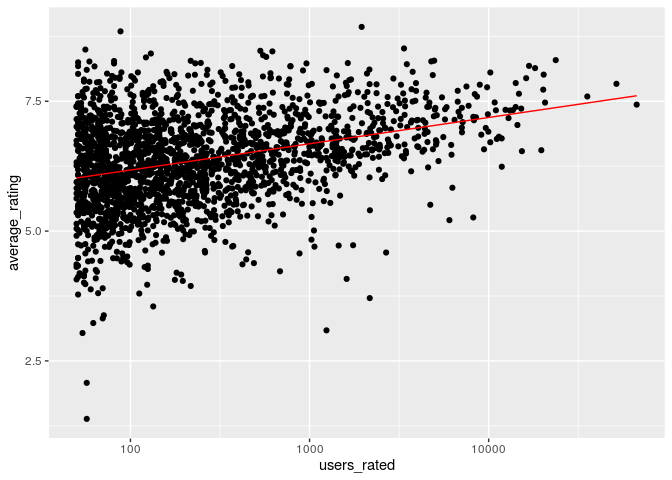
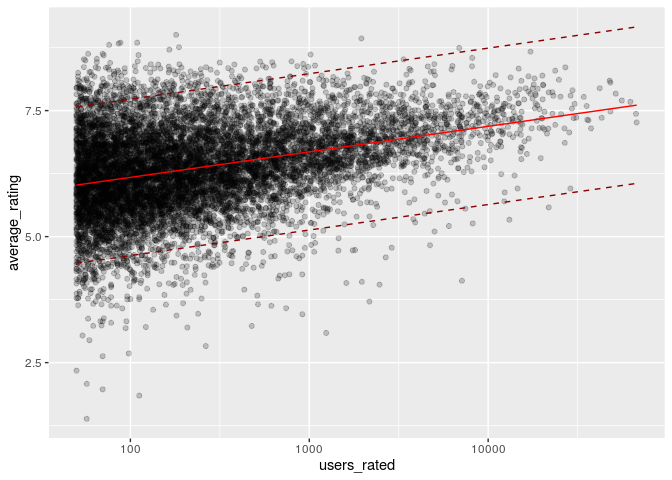
Complete evaluation and prediction intervals, change to use workflow for users_rated model

diff --git a/extra/users_rated.md b/extra/users_rated.md
@@ -131,31 +131,96 @@ board_games_splitcats %>%
 
 ``` r
 set.seed(314159)
-bg_rating_split <- initial_split(board_games_splitcats, prop = 0.8)
-train_data <- training(bg_rating_split)
-test_data <- testing(bg_rating_split)
+bg_nrate_split <- initial_split(board_games_splitcats, prop = 0.8)
+train_data <- training(bg_nrate_split)
+test_data <- testing(bg_nrate_split)
 
-bg_rating_fit <- linear_reg() %>% 
-  set_engine("lm") %>% 
-  fit(average_rating ~ log(users_rated), data = train_data)
+bg_nrate_rec <- recipe(
+  average_rating ~ users_rated,
+  data = train_data
+) %>% 
+  step_log(users_rated)
 
-bg_rating_fit_tidy <- tidy(bg_rating_fit$fit)
-bg_rating_fit_aug <- augment(bg_rating_fit$fit)
+bg_nrate_model <- linear_reg() %>% 
+  set_engine("lm")
 
-bg_rating_predictions <- predict(bg_rating_fit, test_data) %>% 
-  bind_cols(test_data %>% dplyr::select(average_rating, users_rated, name))
+bg_nrate_wflow <- workflow() %>% 
+  add_model(bg_nrate_model) %>% 
+  add_recipe(bg_nrate_rec)
 
-ggplot(dat = bg_rating_predictions, aes(x = users_rated)) + 
-  geom_point(aes(y = average_rating)) + 
+bg_nrate_fit <- bg_nrate_wflow %>%
+  fit(data = train_data)
+
+bg_nrate_fit_tidy <- tidy(bg_nrate_fit)
+# bg_nrate_fit_aug <- augment(bg_nrate_fit) # Why does this break?
+
+# Evaluation
+set.seed(314159)
+folds <- vfold_cv(train_data, v = 5)
+
+bg_nrate_fit_vfold <- bg_nrate_wflow %>% 
+  fit_resamples(folds)
+```
+
+    ## 
+    ## Attaching package: 'rlang'
+
+    ## The following objects are masked from 'package:purrr':
+    ## 
+    ##     %@%, as_function, flatten, flatten_chr, flatten_dbl, flatten_int,
+    ##     flatten_lgl, flatten_raw, invoke, list_along, modify, prepend,
+    ##     splice
+
+    ## 
+    ## Attaching package: 'vctrs'
+
+    ## The following object is masked from 'package:dplyr':
+    ## 
+    ##     data_frame
+
+    ## The following object is masked from 'package:tibble':
+    ## 
+    ##     data_frame
+
+``` r
+# Metrics for model fitted to v-fold train data: 
+train_metrics <- collect_metrics(bg_nrate_fit_vfold)
+
+# predictions and metrics for test data
+bg_nrate_pred <- predict(bg_nrate_fit, test_data) %>% 
+  bind_cols(
+    predict(bg_nrate_fit, test_data, type = "pred_int"),
+    test_data %>% dplyr::select(average_rating, users_rated, name)
+  )
+
+test_rmse <- rmse(bg_nrate_pred, truth = average_rating, estimate = .pred)
+test_rsq <- rsq(bg_nrate_pred, truth = average_rating, estimate = .pred)
+
+# tibble of metrics for both train and test data
+train_test_metrics <- tribble(
+  ~data, ~metric, ~value,
+  "train", "rmse", train_metrics$mean[1],
+  "train", "rsq", train_metrics$mean[2],
+  "test", "rmse", test_rmse$.estimate[1],
+  "test", "rsq", test_rsq$.estimate[1],
+) %>% 
+  pivot_wider(names_from = data, values_from = value)
+
+# plot of model on full data
+predict(bg_nrate_fit, board_games_splitcats) %>% 
+  bind_cols(
+    predict(bg_nrate_fit, board_games_splitcats, type = "pred_int"),
+    board_games_splitcats %>% dplyr::select(average_rating, users_rated, name)
+  ) %>% 
+  ggplot(aes(x = users_rated)) + 
+  geom_point(aes(y = average_rating), alpha = 0.2) + 
   geom_line(aes(y = .pred), colour = "red") + 
+  geom_line(aes(y = .pred_upper), colour = "dark red", linetype = "dashed") +
+  geom_line(aes(y = .pred_lower), colour = "dark red", linetype = "dashed") + 
   scale_x_log10()
 ```
 
 ![](users_rated_files/figure-gfm/av-n-rating-model-1.png)<!-- -->
-
-``` r
-# YET TO EVALUATE PERFORMANCE
-```
 
 ### Fitting a statistical distribution to the distribution of average\_rating values
 
